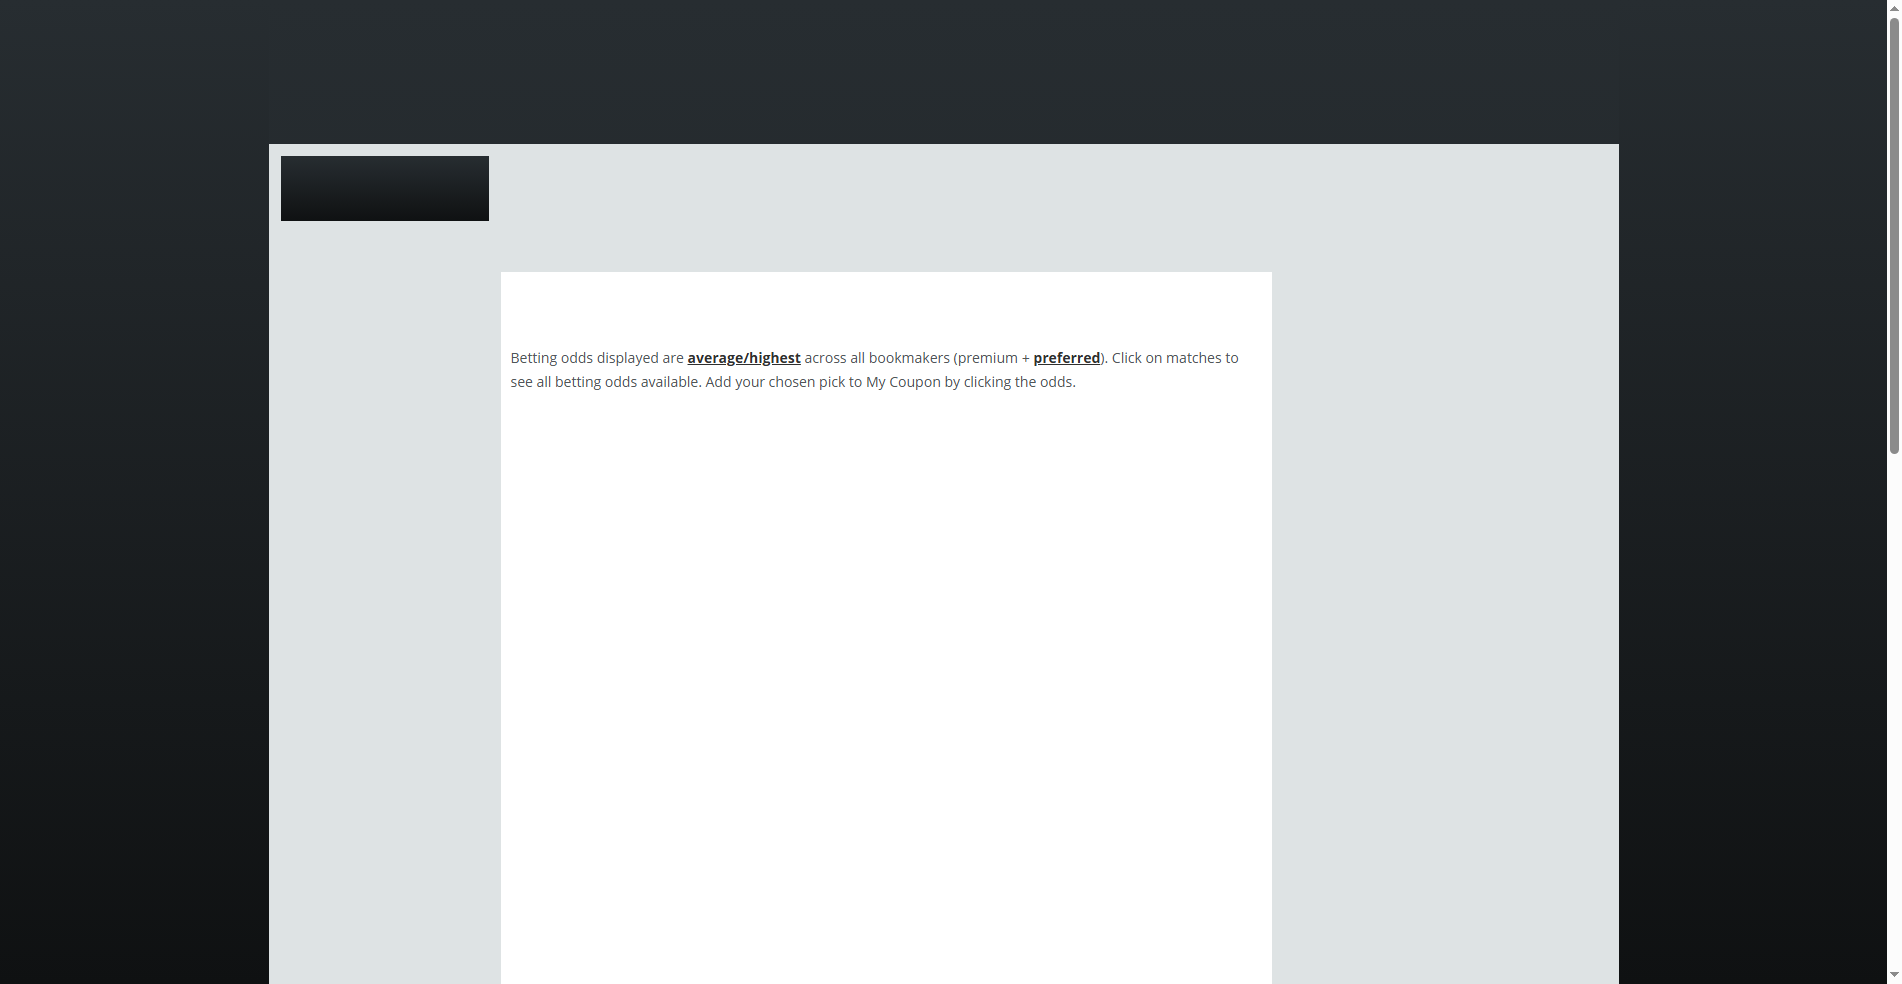
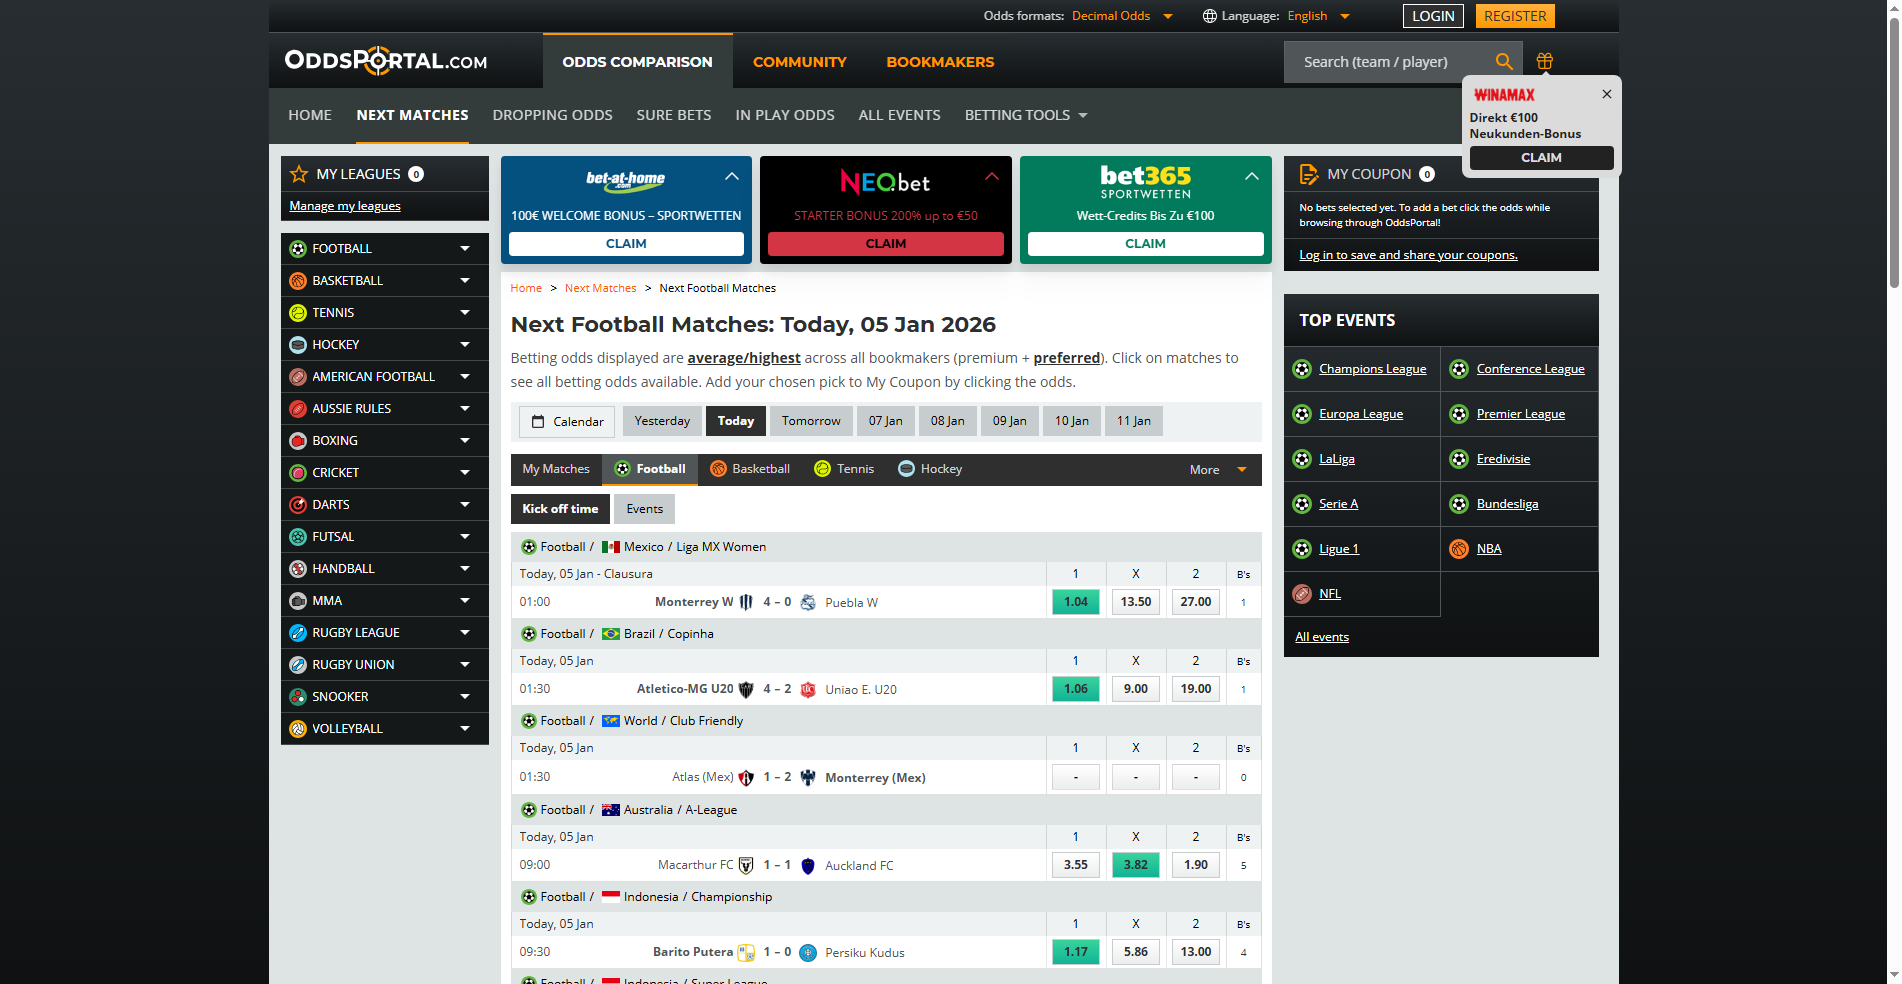
fix: resolve local functionality issues and finalize firebase odds integration

diff --git a/src/components/Dashboard.jsx b/src/components/Dashboard.jsx
@@ -10,6 +10,7 @@ import { aiAnalystService } from '../backend/aiAnalystService';
 import { liveOpportunityScorer } from '../logic/liveOpportunityScorer';
 import { smartAlertService } from '../backend/smartAlertService';
 import { predictionTracker } from '../backend/predictionTracker';
+import { database, ref, get } from '../firebase/config';
 import '../styles/global.css';
 
 const RADAR_SOURCES = [
@@ -153,18 +154,16 @@ export const Dashboard = ({ user, onLogout }) => {
     useEffect(() => {
         const fetchLiveOdds = async () => {
             try {
-                const API_BASE = window.location.hostname === 'localhost'
-                    ? 'http://localhost:3001'
-                    : '';
-                const response = await fetch(`${API_BASE}/api/live-odds`);
-                if (response.ok) {
-                    const data = await response.json();
+                // Fetch from Firebase
+                const snapshot = await get(ref(database, 'live_odds'));
+                if (snapshot.exists()) {
+                    const data = snapshot.val();
                     setLiveOdds(data);
                     // Pass to opportunity scorer for value detection
                     liveOpportunityScorer.setLiveOdds(data);
                 }
             } catch (e) {
-                console.log('[ODDS] Live odds fetch failed:', e.message);
+                console.log('[ODDS] Firebase odds fetch failed:', e.message);
             }
         };
 

diff --git a/src/backend/sofaScoreAdapter.js b/src/backend/sofaScoreAdapter.js
@@ -227,10 +227,13 @@ export const sofaScoreAdapter = {
 
         return {
             id: event.id,
-            homeTeam: event.homeTeam.name,
-            awayTeam: event.awayTeam.name,
+            homeTeam: event.homeTeam?.name || 'Home',
+            awayTeam: event.awayTeam?.name || 'Away',
             leagueName: event.tournament?.name || 'Unknown League',
-            score: { home: event.homeScore.current, away: event.awayScore.current },
+            score: {
+                home: event.homeScore?.current ?? 0,
+                away: event.awayScore?.current ?? 0
+            },
             minute: sofaScoreAdapter.calculateMinute(event),
             stats: normalizedStats,
             isPartial: isPartial,

diff --git a/src/App.jsx b/src/App.jsx
@@ -43,7 +43,14 @@ function App() {
 
   return (
     <div className="App">
-      <Dashboard user={{ email: 'test@livebetcode.com', id: 'test-user' }} onLogout={() => { }} />
+      {!session ? (
+        <Login onLoginSuccess={(sess) => setSession(sess)} />
+      ) : (
+        <Dashboard
+          user={session.user}
+          onLogout={() => supabase.auth.signOut()}
+        />
+      )}
     </div>
   );
 }
